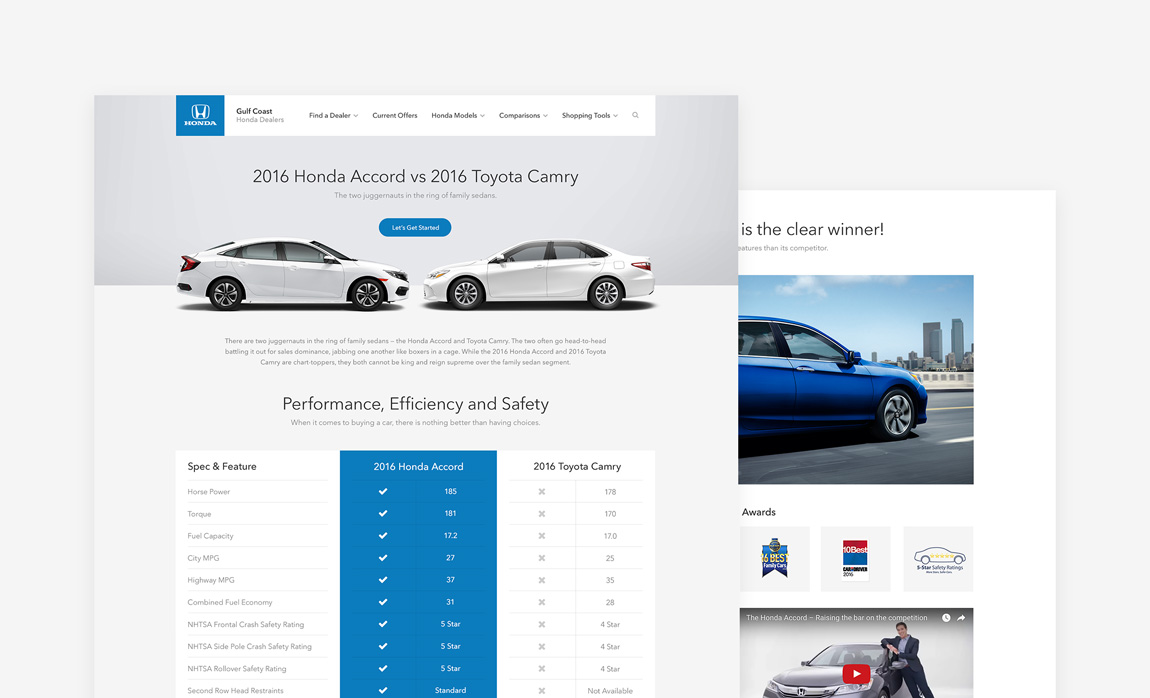
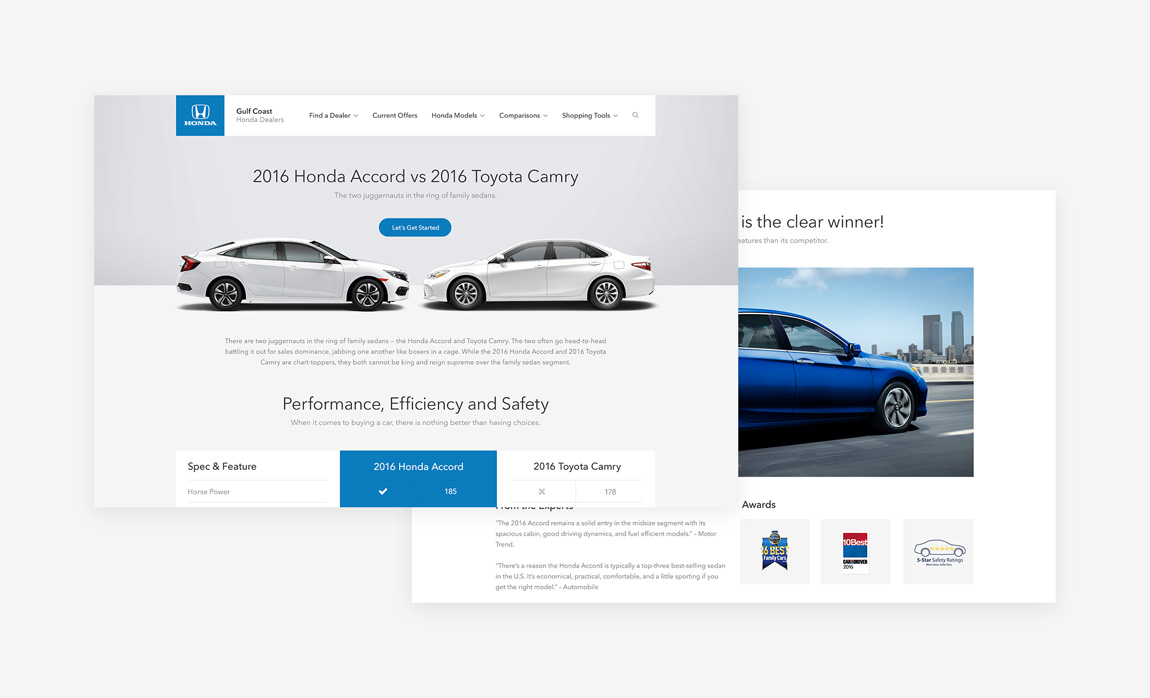
adjust new slider

diff --git a/css/cd-slider.css b/css/cd-slider.css
@@ -77,7 +77,7 @@
         left: 0;
         height: 100%;
         width: 100%;
-        background: rgba(255, 255, 255, 0.15);
+        background: rgba(255, 255, 255, 0.25);
         /* size of the icon */
         opacity: 0;
         z-index: 4;
@@ -174,19 +174,19 @@
     float: left;
     margin: 0 5px; }
     .cd-slider-pagination li.selected a {
-      background: #f5f4f3; }
+      background: #83868a; }
   .cd-slider-pagination a {
     display: block;
     height: 12px;
     width: 12px;
     border-radius: 50%;
-    border: 1px solid #f5f4f3;
+    border: 1px solid #83868a;
     /* fix a bug in IE9/10 - transparent anchor not clickable */
-    background-color: rgba(255, 255, 255, 0);
+    background-color: rgba(0, 0, 0, 0);
     /* image replacement */
     overflow: hidden;
     text-indent: 100%;
-    white-space: nowrap; }
+    white-space: nowrap;}
 
 .cd-slider-wrapper .cd-close {
   display: none;
@@ -316,11 +316,6 @@ ul.cd-slider-navigation {
 
   .cd-open {
     z-index: 4;
-  }
-
-  .cd-prev,
-  .cd-next {
-    opacity: 0.15;
   }
 
   ul.cd-slider-navigation {

diff --git a/index.php b/index.php
@@ -73,7 +73,7 @@
                 <ul class="cd-slider-navigation">
                   <li><a href="#0" class="cd-prev inactive">Next</a></li>
                   <li><a href="#0" class="cd-next">Prev</a></li>
-                </ul> 
+                </ul>
                 <a href="#0" class="cd-close">Close</a>
               </div>
             </div> 
